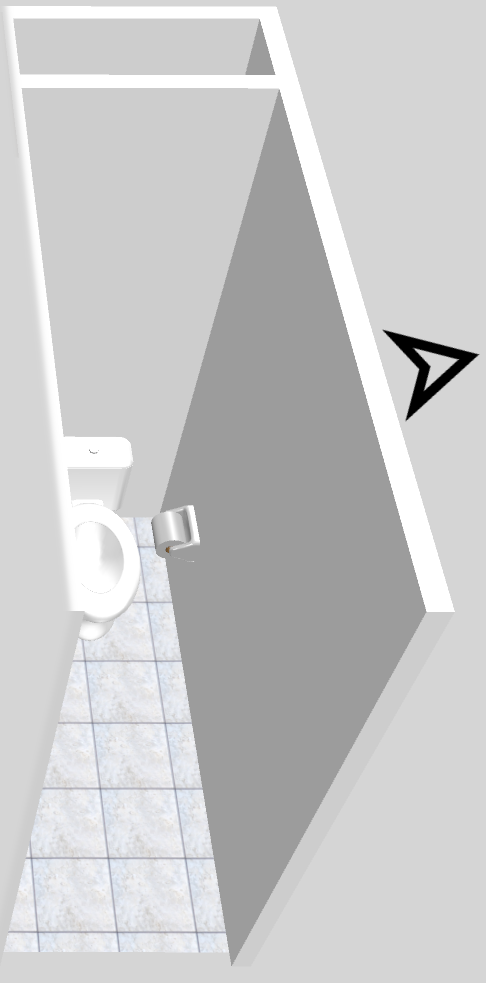
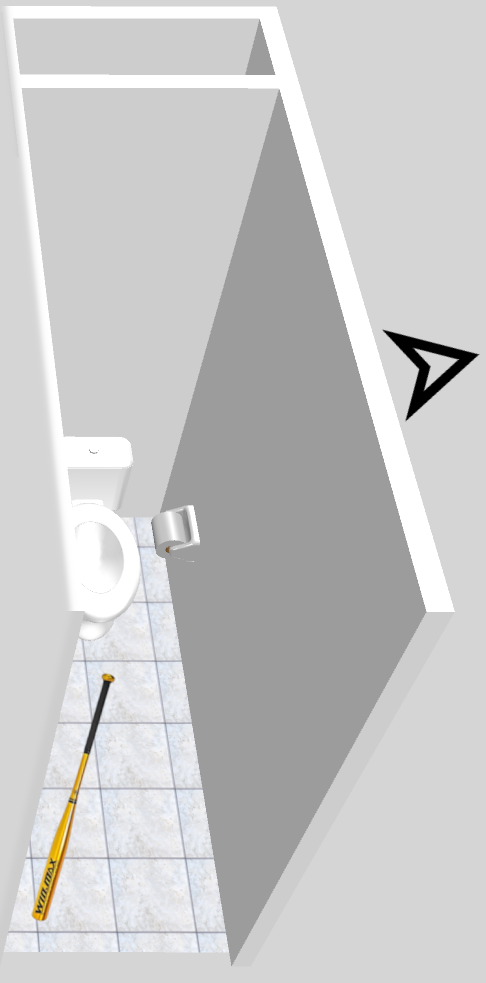
toilette faites

Changed region(s): [[0.0617, 0.6714, 0.2469, 0.9461]]

diff --git a/projet-48h/src/app/toilette/page.tsx b/projet-48h/src/app/toilette/page.tsx
@@ -1,8 +1,42 @@
+import {
+    Dialog,
+    DialogContent,
+    DialogDescription,
+    DialogHeader,
+    DialogTitle,
+    DialogTrigger,
+} from "@/components/ui/dialog"
+
 export default function Salon() {
     return (
         <div className="h-screen w-screen bg-[url(/assets/image/toilette.png)] bg-no-repeat bg-contain bg-center bg-[#D5D5D5]">
-            <a   href="/couloir" title='couloir' className="absolute w-[100px] h-[100px] right-[36%] top-[32%] cursor-pointer hover:bg-red-600 opacity-20"
+            <a href="/couloir" title='couloir' className="absolute w-[100px] h-[100px] right-[36%] top-[32%] cursor-pointer hover:bg-red-600 opacity-20"
             />
+
+            <Dialog>
+                <DialogTrigger className="absolute w-[70px] h-[200px] right-[57%] top-[70%] cursor-pointer hover:bg-red-600 opacity-20"></DialogTrigger>
+                <DialogContent className="top-[20%] w-[80%] h-[20%]">
+                    <DialogHeader>
+                        <DialogTitle>Batte de baseball</DialogTitle>
+                        <DialogDescription>
+                            Etrange endroit pour retrouver une batte de baseball, mais bon, peut être que la victime s'entrainait sur le trône.
+                        </DialogDescription>
+                    </DialogHeader>
+                </DialogContent>
+            </Dialog>
+
+
+            <Dialog>
+                <DialogTrigger className="absolute w-[50px] h-[50px] right-[52%] top-[51%] cursor-pointer hover:bg-red-600 opacity-20"></DialogTrigger>
+                <DialogContent className="top-[20%] w-[80%] h-[20%]">
+                    <DialogHeader>
+                        <DialogTitle>Un rouleau de PQ</DialogTitle>
+                        <DialogDescription>
+                            Sous le rouleau de PQ, vous voyez une suite de chiffres, 567882, La victime était vraiment quelqu'un d'étrange
+                        </DialogDescription>
+                    </DialogHeader>
+                </DialogContent>
+            </Dialog>
         </div>
     );
-  }
+}
